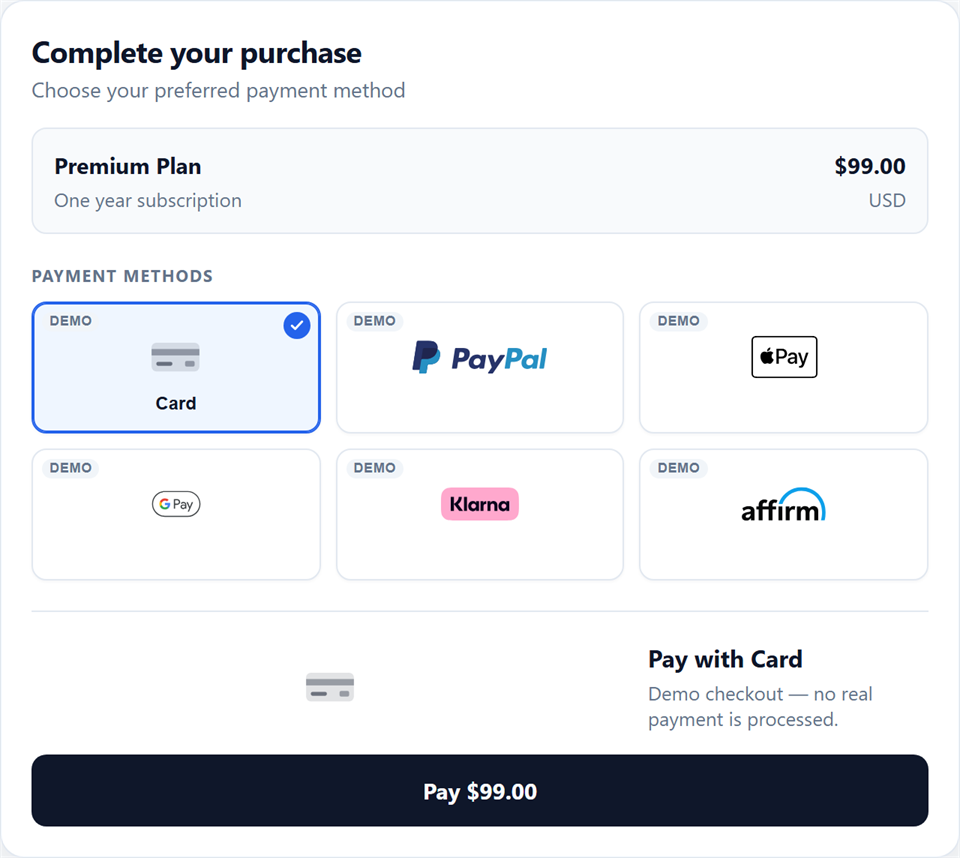
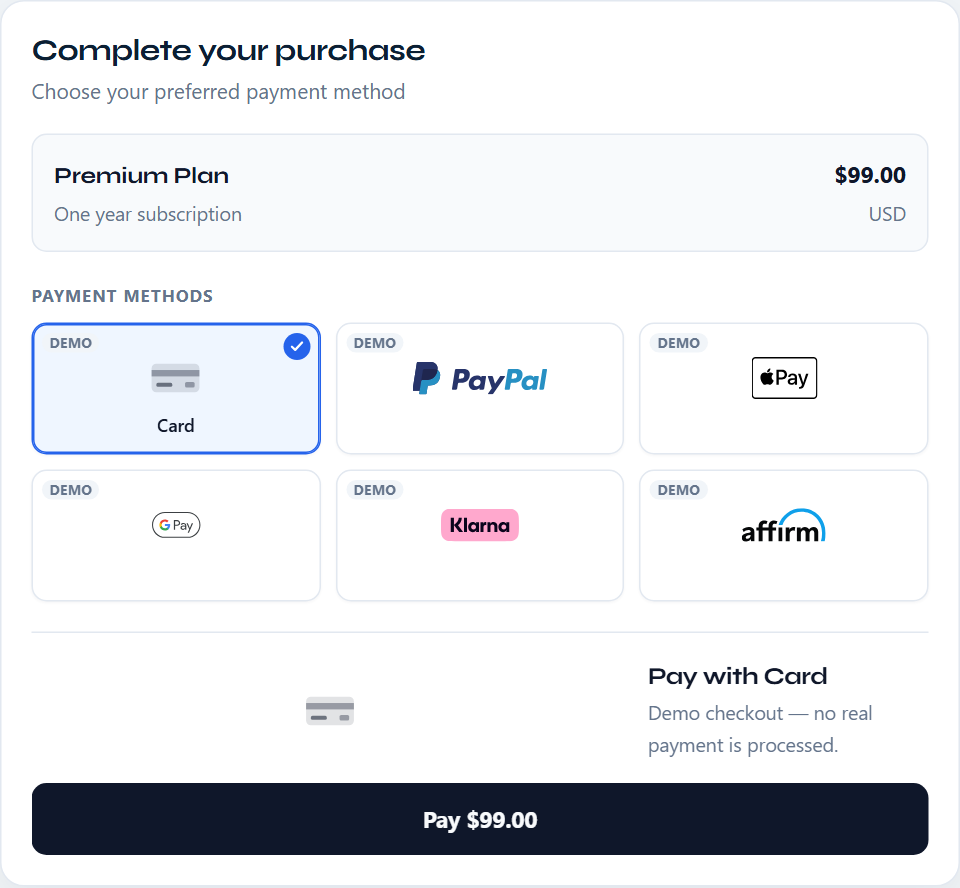
feat: localize the homepage checkout preview

diff --git a/src/app/features/home/home.page.spec.ts b/src/app/features/home/home.page.spec.ts
@@ -1,10 +1,12 @@
 import { ComponentFixture, TestBed } from '@angular/core/testing';
 import { provideRouter } from '@angular/router';
 import { environment } from '../../../environments/environment';
+import { SiteI18nService } from '../../core/i18n/site-i18n.service';
 import { HomePage } from './home.page';
 
 describe('HomePage', () => {
   let fixture: ComponentFixture<HomePage>;
+  let i18n: SiteI18nService;
 
   beforeEach(async () => {
     await TestBed.configureTestingModule({
@@ -12,6 +14,8 @@ describe('HomePage', () => {
       providers: [provideRouter([])],
     }).compileComponents();
 
+    i18n = TestBed.inject(SiteI18nService);
+    i18n.setLanguage('en');
     fixture = TestBed.createComponent(HomePage);
     fixture.detectChanges();
     await fixture.whenStable();
@@ -40,8 +44,30 @@ describe('HomePage', () => {
       img.getAttribute('src'),
     );
     expect(el.querySelector('.hero__logo')).toBeNull();
-    expect(heroImages).toEqual(['screenshots/checkout-desktop.png']);
+    expect(heroImages).toEqual(['screenshots/checkout-desktop-en.png']);
     expect(heroImages).not.toContain('brand/logo-lockup-640.png');
+  });
+
+  it('swaps the hero checkout preview image, caption, and alt with site language', () => {
+    const el = fixture.nativeElement as HTMLElement;
+    const img = el.querySelector('.hero__media img') as HTMLImageElement;
+    const caption = el.querySelector('.hero__media figcaption');
+
+    expect(img.getAttribute('src')).toBe('screenshots/checkout-desktop-en.png');
+    expect(img.getAttribute('alt')).toContain('Easy Payments Angular checkout');
+    expect(caption?.textContent).toContain('demo mode, no live charges');
+
+    i18n.setLanguage('es');
+    fixture.detectChanges();
+    expect(img.getAttribute('src')).toBe('screenshots/checkout-desktop-es.png');
+    expect(img.getAttribute('alt')).toContain('Tarjeta');
+    expect(caption?.textContent).toContain('modo demo, sin cargos reales');
+
+    i18n.setLanguage('pt');
+    fixture.detectChanges();
+    expect(img.getAttribute('src')).toBe('screenshots/checkout-desktop-pt.png');
+    expect(img.getAttribute('alt')).toContain('Cartão');
+    expect(caption?.textContent).toContain('modo demo, sem cobranças reais');
   });
 
   it('presents Angular as available and other frameworks as coming soon', () => {

diff --git a/src/app/core/i18n/site-messages.ts b/src/app/core/i18n/site-messages.ts
@@ -98,6 +98,8 @@ export type SiteMessageKey =
   | 'home.playgroundTitle'
   | 'home.playgroundBody'
   | 'home.playgroundCta'
+  | 'home.previewCaption'
+  | 'home.previewAlt'
   | 'contact.title'
   | 'contact.lede'
   | 'contact.notice'
@@ -254,6 +256,10 @@ const en: Catalog = {
   'home.playgroundBody':
     'Configure a checkout, preview real library demos in mock mode, and copy integration code. The playground never processes payments and never accepts real card data.',
   'home.playgroundCta': 'Open Playground',
+  'home.previewCaption':
+    'Real Easy Payments checkout screenshot · demo mode, no live charges',
+  'home.previewAlt':
+    'Easy Payments Angular checkout on desktop with Card, PayPal, Apple Pay, Google Pay, Klarna, and Affirm options labeled DEMO',
   'nav.contact': 'Contact',
   'nav.faq': 'FAQ',
   'nav.support': 'Support',
@@ -423,6 +429,10 @@ const es: Catalog = {
   'home.playgroundBody':
     'Configura un checkout, previsualiza demos reales en modo mock y copia el código. El playground nunca procesa pagos ni acepta datos reales de tarjeta.',
   'home.playgroundCta': 'Abrir Playground',
+  'home.previewCaption':
+    'Captura real del checkout de Easy Payments · modo demo, sin cargos reales',
+  'home.previewAlt':
+    'Checkout de Easy Payments para Angular en escritorio con Tarjeta, PayPal, Apple Pay, Google Pay, Klarna y Affirm etiquetados como DEMO',
   'nav.contact': 'Contacto',
   'nav.faq': 'FAQ',
   'nav.support': 'Apoyo',
@@ -592,6 +602,10 @@ const pt: Catalog = {
   'home.playgroundBody':
     'Configure um checkout, visualize demos reais em modo mock e copie o código. O playground nunca processa pagamentos nem aceita dados reais de cartão.',
   'home.playgroundCta': 'Abrir Playground',
+  'home.previewCaption':
+    'Captura real do checkout Easy Payments · modo demo, sem cobranças reais',
+  'home.previewAlt':
+    'Checkout Easy Payments para Angular no desktop com Cartão, PayPal, Apple Pay, Google Pay, Klarna e Affirm rotulados como DEMO',
   'nav.contact': 'Contato',
   'nav.faq': 'FAQ',
   'nav.support': 'Apoio',

diff --git a/src/app/features/home/home.page.ts b/src/app/features/home/home.page.ts
@@ -50,6 +50,14 @@ export class HomePage {
   protected readonly playgroundCta = computed(() =>
     this.i18n.t('home.playgroundCta'),
   );
+  /** Hero checkout preview — swaps with site language without a reload. */
+  protected readonly previewSrc = computed(
+    () => `screenshots/checkout-desktop-${this.i18n.language()}.png`,
+  );
+  protected readonly previewAlt = computed(() => this.i18n.t('home.previewAlt'));
+  protected readonly previewCaption = computed(() =>
+    this.i18n.t('home.previewCaption'),
+  );
   protected readonly githubAngularUrl = environment.githubAngularUrl;
   protected readonly githubWebsiteUrl = environment.githubWebsiteUrl;
   protected readonly npmAngularUrl = environment.npmAngularUrl;

diff --git a/src/app/features/home/home.page.html b/src/app/features/home/home.page.html
@@ -25,14 +25,14 @@
 
         <figure class="hero__media">
           <img
-            src="screenshots/checkout-desktop.png"
+            [src]="previewSrc()"
             width="960"
-            height="720"
-            alt="Easy Payments Angular checkout on desktop with Card, PayPal, Apple Pay, Google Pay, Klarna, and Affirm options labeled DEMO"
+            height="888"
+            [alt]="previewAlt()"
             decoding="async"
             fetchpriority="high"
           />
-          <figcaption>Real Easy Payments checkout screenshot · demo mode, no live charges</figcaption>
+          <figcaption>{{ previewCaption() }}</figcaption>
         </figure>
       </div>
     </ep-container>
